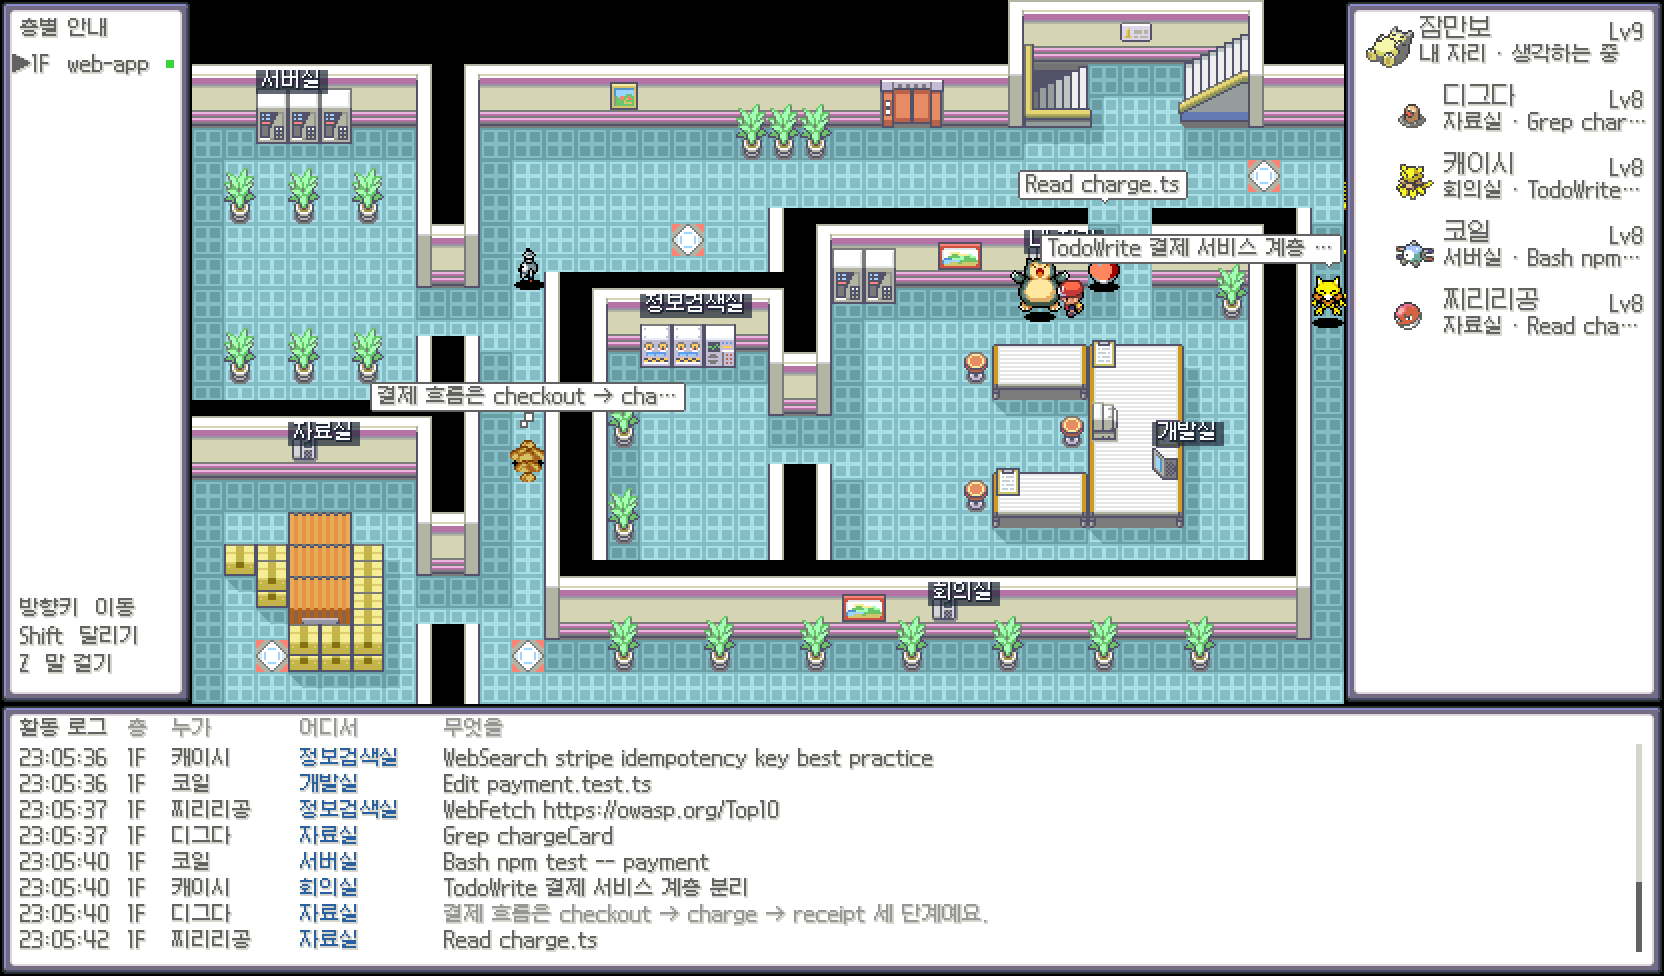
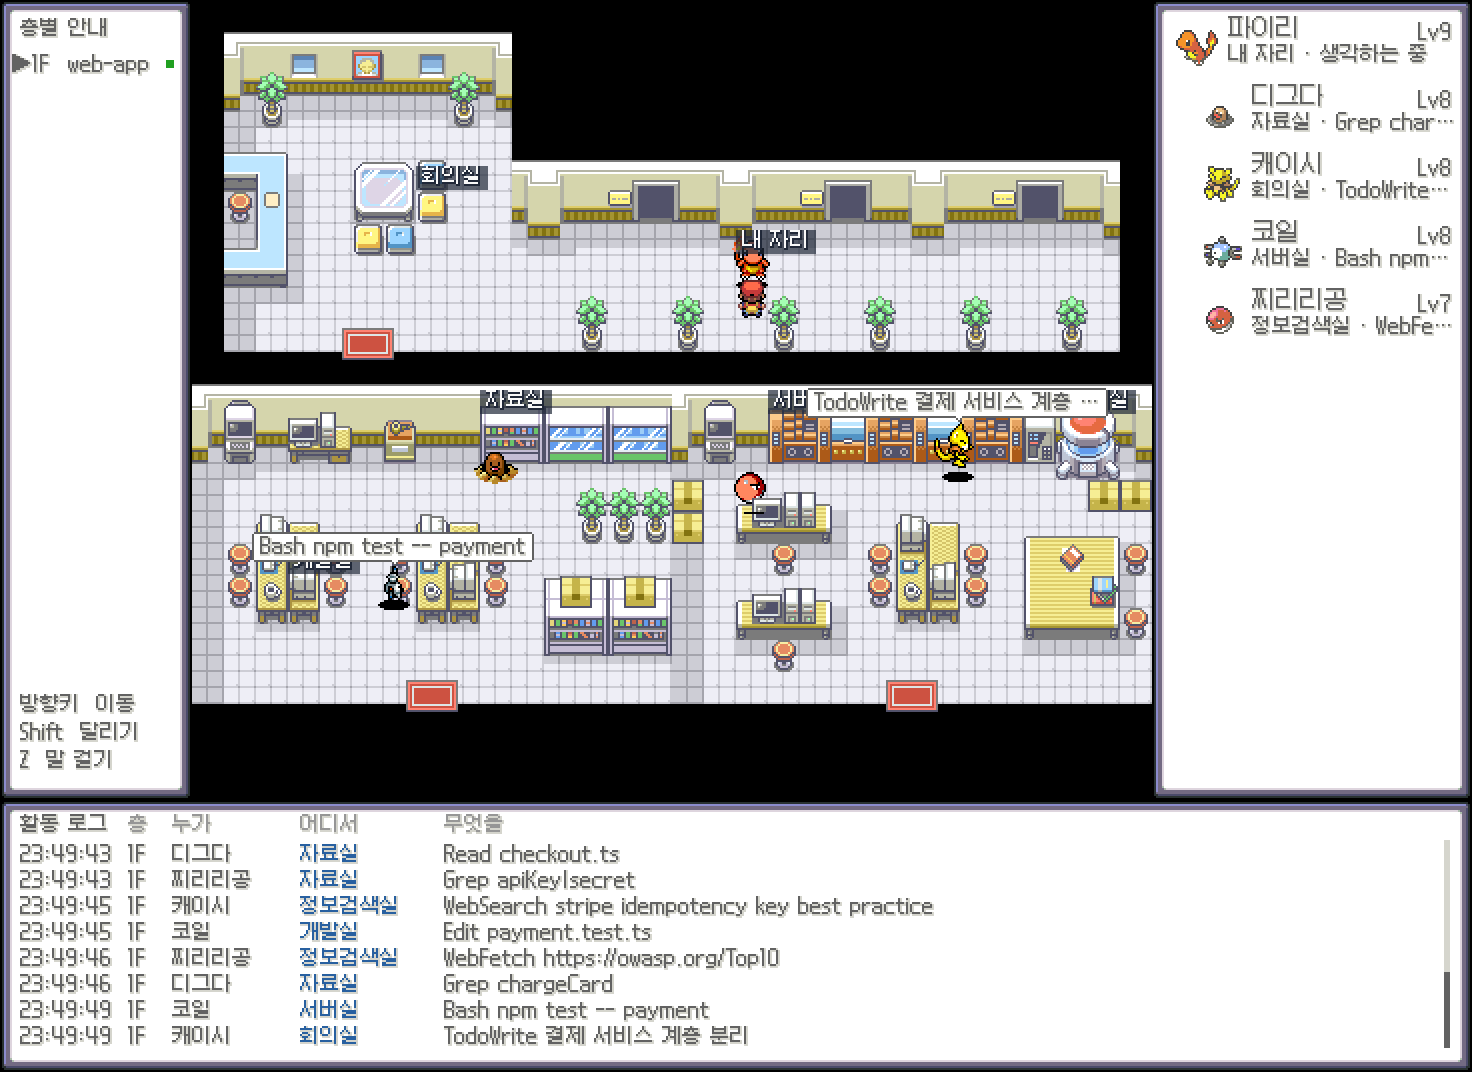
docs: 연구소·대화 패널 기준으로 README 갱신
층별 방 조합, 역할 배치, 이동 방식, 대화 패널, 갱신 주기 설명과
연구소 화면 스크린샷으로 교체

diff --git a/README.md b/README.md
@@ -1,12 +1,12 @@
 # poke-agents-office
 
 Claude Code가 터미널에서 뭘 하고 있는지 한눈에 보는 로컬 대시보드.
-세션 하나하나가 **파이어레드 실프주식회사**에서 일하는 1세대 포켓몬이 된다.
+세션 하나하나가 **파이어레드 포켓몬연구소**에서 일하는 1세대 포켓몬이 된다.
 
 ![팀 데모: 서브에이전트 4마리가 각자 방에서 일하는 장면](docs/screenshot.png)
 
 - 파일을 읽으면 자료실로, 명령을 돌리면 서버실로, 코드를 고치면 개발실로 걸어간다.
-- 서브에이전트를 부르면 자리에서 전화를 걸고, 지원 포켓몬이 엘리베이터를 타고 출근한다.
+- 서브에이전트를 부르면 자리에서 전화를 걸고, 지원 포켓몬이 현관으로 들어온다.
 - 도구를 쓸 때마다 레벨이 오르고, 원작 레벨에 닿으면 진화한다.
 - 설치할 것도, 훅 설정도 없다. Claude Code가 남기는 세션 기록(`~/.claude`)을 읽기만 한다.
 
@@ -44,25 +44,46 @@ OPEN=1 ./demo.sh team   # 브라우저까지 자동으로 열기
 | 영역 | 내용 |
 |---|---|
 | 층별 안내 (왼쪽) | 프로젝트마다 한 층. 일하는 층엔 초록불, 누르면 `▲ 3F` 엘리베이터로 이동 |
-| 사무실 (가운데) | 그 층에서 일하는 포켓몬들과 트레이너(나) |
+| 연구소 (가운데) | 그 층에서 일하는 포켓몬들과 트레이너(나) |
 | 파티 (오른쪽) | 그 층의 세션과 서브에이전트, 레벨, 상태(SLP·PAR), 어디서 무엇을 하는지 |
 | 활동 로그 (아래) | 시각 · 층 · 누가 · 어디서 · 무엇을. 최신이 아래, 휠로 스크롤 |
+| 대화 패널 | 포켓몬·파티 슬롯·로그 줄을 클릭하면 열림 (아래 참고) |
 
-창 크기에 맞춰 커지고, 2배·3배처럼 정수 배율이 들어갈 땐 거기에 맞춘다. 가장 선명한 건 2배(1664×976)로, 브라우저 창이 약 1700×1010 이상이면 된다.
+창 크기에 맞춰 커지고, 2배·3배처럼 정수 배율이 들어갈 땐 거기에 맞춘다. 가장 선명한 건 2배(1472×1072)로, 브라우저 창이 약 1510×1110 이상이면 된다.
 
-## 사무실
+### 대화 패널
 
-층마다 실프주식회사의 실제 다른 층 지도를 쓴다(5F → 3F → 2F → … 순으로 배정).
-방은 그 층에 실제로 있는 설비를 찾아 자동으로 배치한다.
+맵의 포켓몬, 파티 창 슬롯, 활동 로그의 줄 중 아무거나 클릭하면 오른쪽에 그 세션의 대화가 열린다.
 
-| 방 | 설비 | 하는 일 | 연출 |
+- 위: 이름·레벨·상태, 프로젝트, 지금 있는 방과 하는 일, 턴 수, 도구 호출 수, 세션 ID, 작업 경로
+- 아래: 트레이너(나)의 메시지, 포켓몬(Claude)의 답변, 연달아 쓴 도구 호출은 접을 수 있게 한 줄로 묶음(실패는 빨간색)
+- 서브에이전트를 클릭하면 그 서브에이전트가 맡은 일과 작업 기록
+- 새 활동이 생기면 자동 갱신(맨 아래를 보고 있을 때만 따라 내려감, 펼쳐 둔 도구 묶음은 그대로). Esc 또는 ✕로 닫기
+
+## 연구소
+
+한 층은 홍련섬 포켓몬연구소의 **로비**와 그 아래 **연구소 방 두 개**로 이뤄진다.
+로비의 문이 각 방의 출입 매트로 이어져서, 방을 옮길 땐 문을 지나간다. 층마다 방 조합이 다르다.
+
+| 층 | 방 | 층 | 방 |
 |---|---|---|---|
-| 자료실 | 설계도·카운터 | Read / Grep / Glob | |
-| 개발실 | 컴퓨터 | Edit / Write | 화면에 코드가 흐름 |
-| 서버실 | 깜빡이는 장비 | Bash | 실행 중엔 LED가 빨라짐 |
-| 정보검색실 | 장비·컴퓨터 | WebSearch / WebFetch / MCP | 모니터 스캔라인 |
-| 회의실 | 설계도·카운터 | TodoWrite / Task* / 플랜 모드 | |
-| 내 자리 | 전화 | 질문, 응답 끝, 서브에이전트 호출 | |
+| 1F | 연구실 + 실험실 | 5F | 라운지 + 실험실 |
+| 2F | 라운지 + 오박사 연구소 | 6F | 3섬 연구소 집 + 오박사 연구소 |
+| 3F | 연구실 + 빌의 집 | 7F | 연구실 + 오박사 연구소 |
+| 4F | 오박사 연구소 + 실험실 | 8F | 빌의 집 + 실험실 (9F부터 반복) |
+
+역할은 그 층에 실제로 있는 설비(메타타일 동작 정보)를 보고 자동으로 정한다.
+
+| 역할 | 설비 | 하는 일 | 연출 |
+|---|---|---|---|
+| 자료실 | 책장·선반 | Read / Grep / Glob | |
+| 개발실 | 컴퓨터·PC | Edit / Write | 화면에 코드가 흐름 |
+| 서버실 | 대형 실험 장비·깜빡이는 장비 | Bash | 실행 중엔 LED가 빨라짐 |
+| 정보검색실 | 깜빡이는 장비·다른 컴퓨터 | WebSearch / WebFetch / MCP | 모니터 스캔라인 |
+| 회의실 | 라운지의 큰 테이블 (없으면 다른 테이블) | TodoWrite / Task* / 플랜 모드 | |
+| 내 자리 | 로비 복도 | 질문, 응답 끝, 서브에이전트 호출 | |
+
+- 도구 호출은 걷는 속도보다 빨리 오므로, 갈 곳을 차례로 쌓아 두고 걸음을 마친 뒤 다음 곳으로 간다(최근 3곳만 유지, 밀리면 달림). 걷다가 되돌아가지 않는다.
 
 - 생각하는 동안엔 Claude가 쓴 글 요약이 구름 말풍선으로 뜬다.
 - 도구가 실패하면 식은땀과 빨간 말풍선, "그러나 실패하고 말았다!"
@@ -71,7 +92,7 @@ OPEN=1 ./demo.sh team   # 브라우저까지 자동으로 열기
 
 ### 서브에이전트
 
-자리에서 전화 → 엘리베이터로 출근 → 각자 방에서 일함 → 부른 포켓몬 옆에서 "보고드립니다!" → 몬스터볼로 귀환.
+자리에서 전화 → 현관으로 출근 → 각자 방에서 일함 → 부른 포켓몬 옆에서 "보고드립니다!" → 몬스터볼로 귀환.
 
 | 종류 | 포켓몬 |
 |---|---|
@@ -98,7 +119,7 @@ OPEN=1 ./demo.sh team   # 브라우저까지 자동으로 열기
 | Shift | 달리기 |
 | Z / Space / Enter | 앞의 포켓몬에게 말 걸기 (지금 하는 일을 알려 준다) |
 
-Claude Code에 메시지를 보내면 트레이너가 그 세션의 포켓몬에게 걸어가 말을 건다. 다른 층이면 엘리베이터를 타고 간다.
+Claude Code에 메시지를 보내면 트레이너가 그 세션의 포켓몬에게 걸어가 말을 건다. 다른 층이면 그 층으로 올라간다. 문으로 걸어 들어가면 다른 방으로 나온다.
 
 ## 동작 원리
 
@@ -106,12 +127,15 @@ Claude Code에 메시지를 보내면 트레이너가 그 세션의 포켓몬에
 ~/.claude/sessions/*.json          살아 있는 Claude Code 프로세스 (pid, sessionId, cwd)
 ~/.claude/projects/**/<id>.jsonl   대화 기록: 도구 호출·결과, 응답, end_turn
    └ <id>/subagents/agent-*.jsonl  서브에이전트 기록 (+ meta.json 의 toolUseId 로 부모 호출과 연결)
-        │  0.25초마다 새로 붙은 줄만 읽음
+        │  0.25초마다 새로 붙은 줄만 읽음 (크기가 그대로면 파일을 열지 않음)
+        │  세션이 켜지고 꺼지는 건 1초마다 확인
         ▼
 server.js ── SSE /events ──▶ index.html (캔버스 하나에 GBA 해상도로 그린 뒤 확대)
+   ├ /api/chat        대화 패널용: 기록을 필요할 때만 파싱, 파일이 커질 때까지 캐시
    └ /pret/*, /pmd/*  게임 그래픽 프록시 + .cache/ 에 저장
 ```
 
+- Claude Code는 메시지 하나가 끝날 때마다 기록에 한 줄씩 쓰므로 0.25초면 거의 실시간이다. 그래도 서버 CPU는 0.1% 안팎이다.
 - 서버를 켜기 전부터 돌던 세션은 지금까지의 도구 호출 수로 레벨을 맞추고, 최근 30개 이벤트만 다시 보여 준다.
 - 지도는 pret 디컴프의 타일셋·메타타일·충돌·동작(behavior) 데이터를 브라우저에서 직접 디코딩해 그린다. 포켓몬은 충돌 데이터를 따라 길을 찾아 걷는다.
 - 서버는 `127.0.0.1`에만 열리고 Host 헤더를 검사한다. 세션 기록은 내 브라우저로만 간다.
@@ -134,4 +158,5 @@ Pokémon과 관련 그래픽의 권리는 Nintendo / Game Freak / The Pokémon C
 - 권한 승인 대기는 기록에 남지 않아 감지하지 못한다. 질문 도구(AskUserQuestion)만 잡는다.
 - 생각(thinking) 내용은 기록에서 비어 있어, 구름 말풍선엔 도구 사이에 쓴 글을 대신 띄운다.
 - 서버를 켜기 전부터 돌던 서브에이전트는 다음에 뭔가를 할 때 나타난다.
-- 실프 층 중 설비가 적은 작은 층(10F·11F)은 일부 방이 복도에 놓인다.
+- 설비가 한쪽에 몰린 방(오박사 연구소 등)에서는 서버실·개발실·정보검색실이 가까이 붙어 배치된다.
+- 서버랙 LED 같은 설비 연출은 타일 위치 기준이라 일부 연구소 장비에서는 살짝 어긋나 보일 수 있다.
